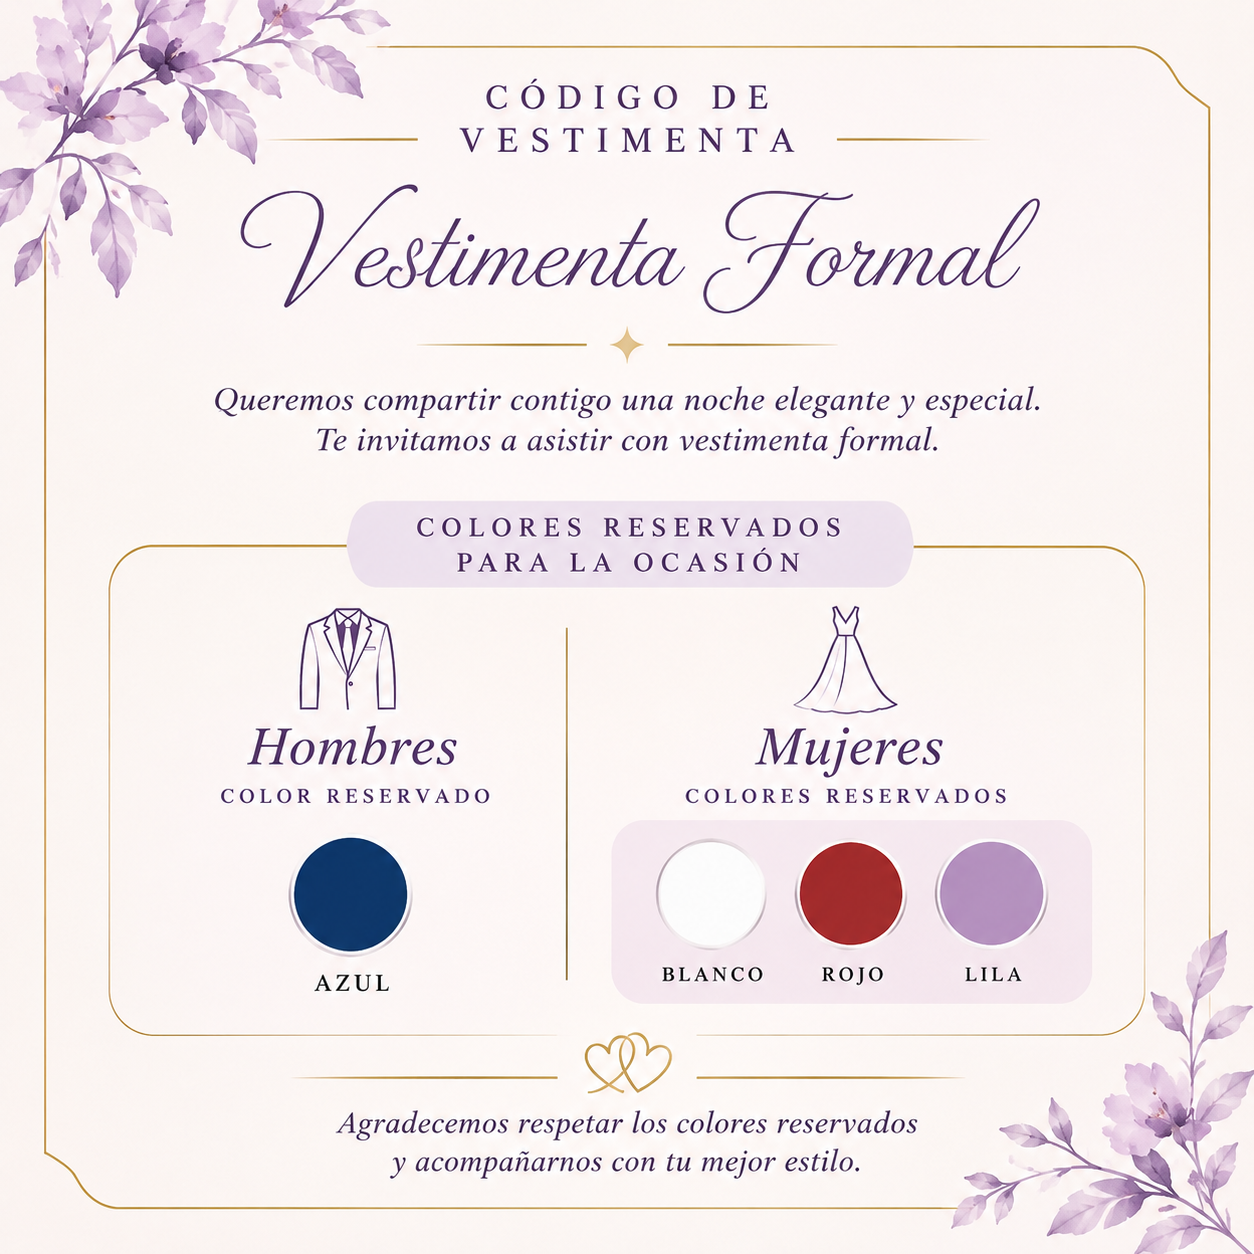
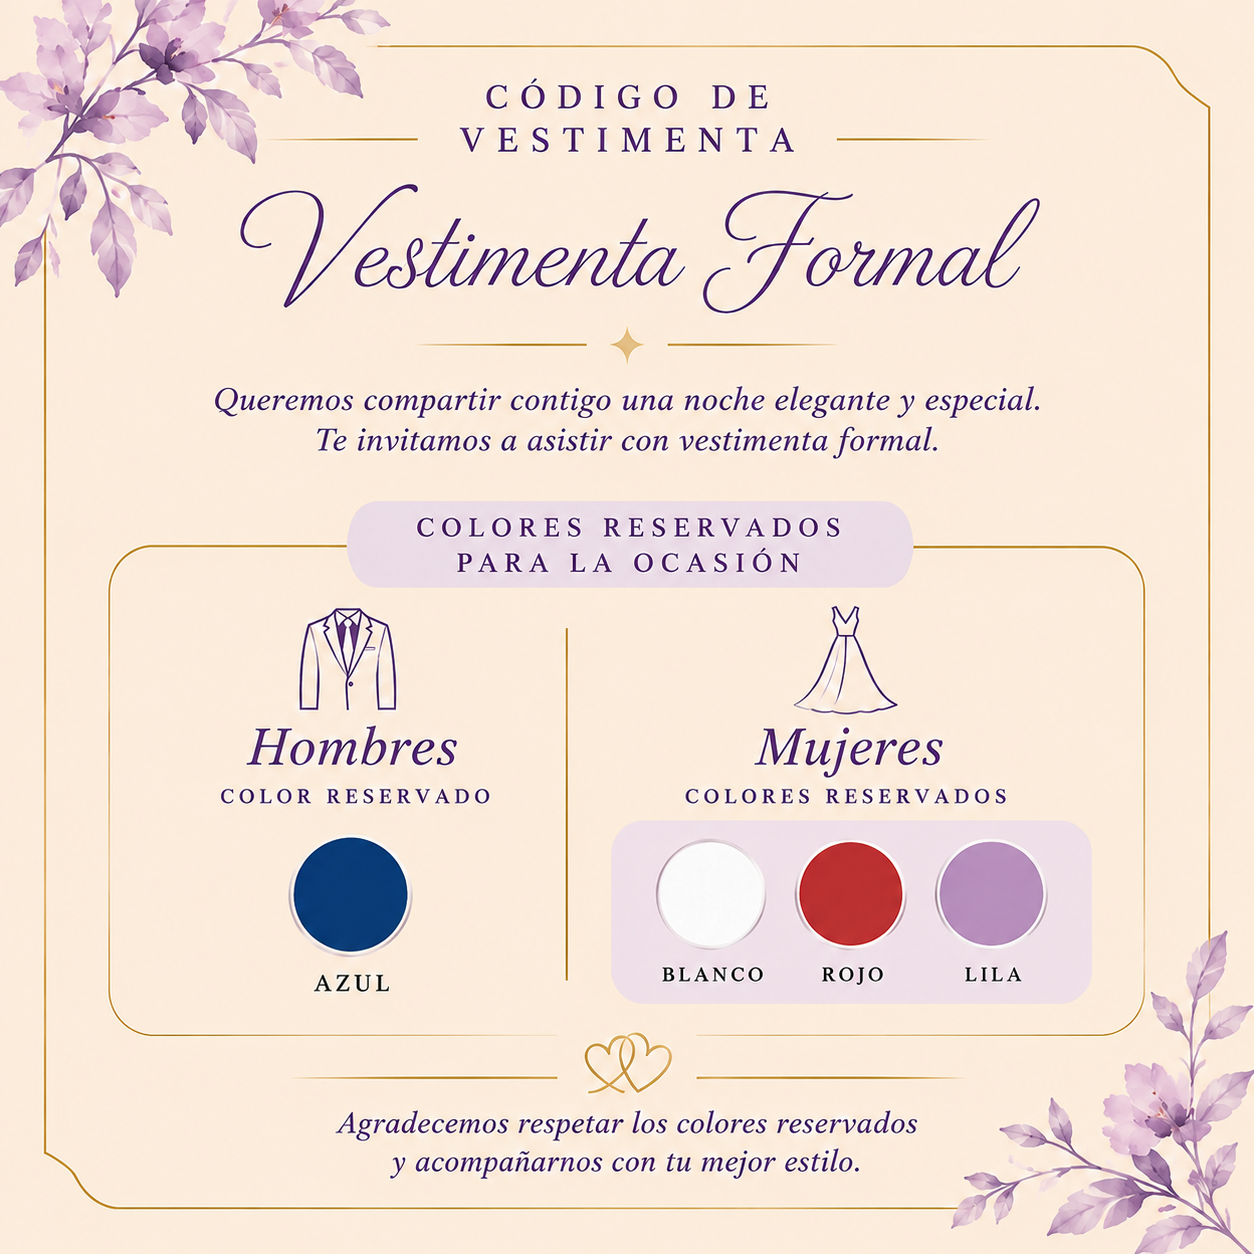
cambio de fondo

diff --git a/Nuestra-Boda/src/componentes-encabezado/novios.jsx b/Nuestra-Boda/src/componentes-encabezado/novios.jsx
@@ -17,8 +17,8 @@ const CONFIG = {
   ],
 
   padresNovia: [
-    "Isabel Guerra náhuatt",
-    "Abraham Montejo de la cruz",
+    "Isabel Guerra Náhuatt",
+    "Abraham Montejo De La Cruz",
   ],
 
   mensaje: "Con la bendición de nuestros padres",
@@ -276,7 +276,7 @@ export default function Novios() {
       className="
         relative w-full
         overflow-hidden
-        bg-white
+        bg-[#FAEEDD]
         px-5
         pt-20 pb-28
         sm:px-8
@@ -496,7 +496,7 @@ export default function Novios() {
 
         <motion.div
           initial={{ opacity: 0 }}
-          whileInView={{ opacity: 1 }}
+          whileInView="visible"
           viewport={{ once: true }}
           transition={{
             duration: 1,

diff --git a/Nuestra-Boda/src/componentes-encabezado/itinerario2.jsx b/Nuestra-Boda/src/componentes-encabezado/itinerario2.jsx
@@ -65,7 +65,6 @@ const fadeUp = {
   },
 };
 
-
 // ==========================================
 // EVENTO DE LA LÍNEA DE TIEMPO
 // ==========================================
@@ -193,14 +192,12 @@ export default function Itinerario2() {
       className="
         relative w-full
         overflow-hidden
-        bg-white
+        bg-[#FAEEDD]
         px-5 py-20
         sm:px-8 sm:py-28
         lg:py-32
       "
     >
-    
-
       <div
         className="
           relative z-10

diff --git a/Nuestra-Boda/src/componentes-encabezado/vestimenta.jsx b/Nuestra-Boda/src/componentes-encabezado/vestimenta.jsx
@@ -17,7 +17,7 @@ export default function Vestimenta() {
         items-center
         justify-center
         overflow-hidden
-        bg-white
+        bg-[#FAEEDD]
         px-3 py-10
         sm:px-6 sm:py-16
         lg:px-10 lg:py-20

diff --git a/Nuestra-Boda/src/componentes-encabezado/confirmacion.jsx b/Nuestra-Boda/src/componentes-encabezado/confirmacion.jsx
@@ -363,7 +363,7 @@ export default function ConfirmacionAsistencia() {
       className="
         relative w-full
         overflow-hidden
-        bg-white
+        bg-[#FAEEDD]
         px-5
         pt-24 pb-32
         sm:px-8

diff --git a/Nuestra-Boda/src/componentes-encabezado/ubicacion.jsx b/Nuestra-Boda/src/componentes-encabezado/ubicacion.jsx
@@ -89,7 +89,7 @@ const TarjetaEvento = ({
         overflow-hidden
         rounded-[20px]
         border border-[#E6DCE9]
-        bg-white
+        bg-[#FAEEDD]
         shadow-[0_12px_35px_rgba(45,25,55,0.12)]
       "
     >

diff --git a/Nuestra-Boda/src/componentes-encabezado/CuentaRegresiva.jsx b/Nuestra-Boda/src/componentes-encabezado/CuentaRegresiva.jsx
@@ -273,7 +273,7 @@ export default function CuentaRegresiva() {
       className="
         relative w-full
         overflow-hidden
-        bg-white
+        bg-[#FAEEDD]
         px-5
         py-24
         sm:py-28
